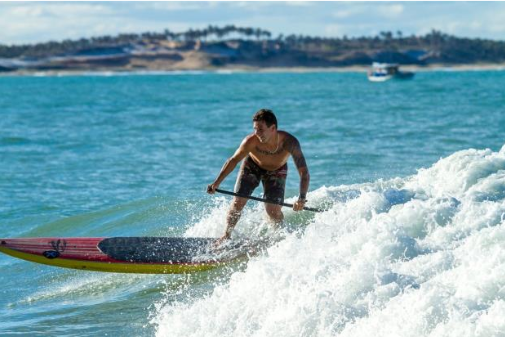
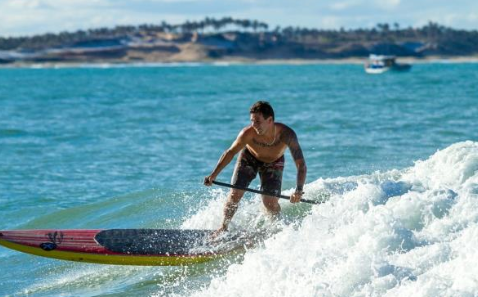
Bild

diff --git a/blog/static/css/blog.css b/blog/static/css/blog.css
@@ -3,6 +3,7 @@ h1 a, h2 a {
     font-family: 'Quicksand', sans-serif;
 }
 body {
+  background-color: #d5d8dc;
    font-family: 'Quicksand', sans-serif;
     padding-left: 15px;
 }
@@ -25,8 +26,7 @@ body {
 
 .image {
  margin-bottom: 20px;
- margin-top: 10px;
- margin-left: 300px;
+ margin-left: 250px;
 
 }
 

diff --git a/blog/templates/blog/base.html b/blog/templates/blog/base.html
@@ -42,7 +42,6 @@
             </div>
           </nav>
 
-      <br />
       <div class= image >
       <img src="{% static 'images/anton.PNG' %}" width="600px" height="300px"/>
       </div>
